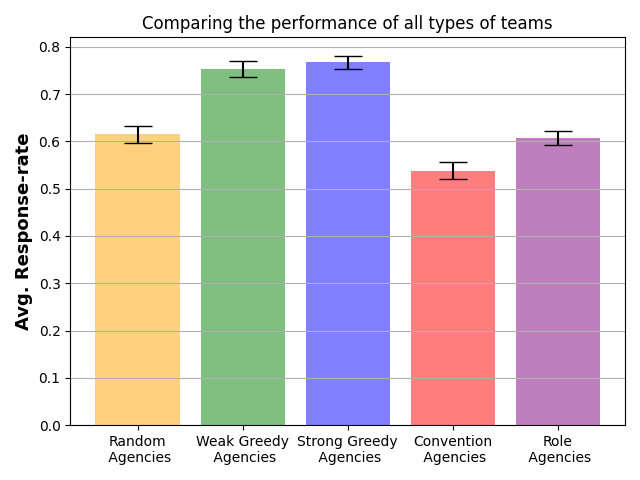
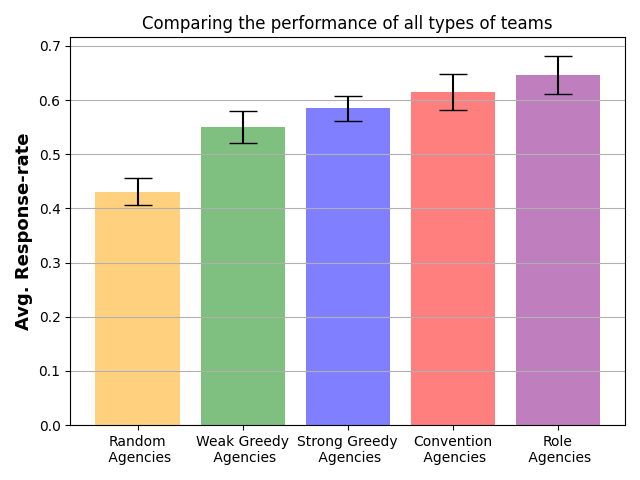
All results...

diff --git a/run.py b/run.py
@@ -77,7 +77,7 @@ if __name__ == '__main__':
         agent_coords=[(220, 40), (40, 220), (220, 440), (440, 220)],
         agent_num_ambulances=[1, 2, 2, 2],
         request_max_generation_steps=50,
-        occupancy_map=OCCUPANCY_MAP_2,
+        occupancy_map=OCCUPANCY_MAP_4,
         show_density_map=opt.show_results,
         save_density_filename=EXPERIMENT_FOLDER + "density_map.png" if opt.save_results else None,
         stressfulness=2
@@ -93,8 +93,8 @@ if __name__ == '__main__':
         "Random\n Agencies": [RandomAgent(agency.name, environment.N_AGENTS) for agency in environment.agencies],
         "Weak Greedy\n Agencies": [WeakGreedyAgent(agency.name, environment.N_AGENTS) for agency in environment.agencies],
         "Strong Greedy\n Agencies": [StrongGreedyAgent(agency.name, environment.N_AGENTS) for agency in environment.agencies],
-        # "Convention\n Agencies": [ConventionAgent(agency.name, environment.N_AGENTS, convention) for agency in environment.agencies],
-        # "Role\n Agencies": [RoleAgent(agency.name, environment.N_AGENTS) for agency in environment.agencies],
+        "Convention\n Agencies": [ConventionAgent(agency.name, environment.N_AGENTS, convention) for agency in environment.agencies],
+        "Role\n Agencies": [RoleAgent(agency.name, environment.N_AGENTS) for agency in environment.agencies],
     }
 
     # 3 - Evaluate agent

diff --git a/ambulance_emergency_response/agents/social_convetion_agent.py b/ambulance_emergency_response/agents/social_convetion_agent.py
@@ -74,6 +74,26 @@ class ConventionAgent(Agent):
             message = Message(closer_requests_actions[-1].request, self.name)
             self.requests_sent.append(closer_requests_actions[-1].request)
 
+        # checks for GRAB actions first prioritizing closer ambulances
+        best_grab_action = None
+        for action in actions:
+            if action.meaning == ERSAction.GRAB:
+                ambulance = action.ambulance
+                if ambulance.coming_back:
+                    continue
+
+                if not best_grab_action:
+                    best_grab_action = action
+                    continue
+
+                ambulance = action.ambulance
+                if Entity.distance_between(self_agency.position, ambulance.position) < \
+                    Entity.distance_between(self_agency.position, best_grab_action.ambulance.position):
+                    best_grab_action = action
+        
+        if best_grab_action:
+            return best_grab_action
+
         if observation.available_ambulances == 0:
             return Action(ERSAction.NOOP).attach_message(message)
 

diff --git a/ambulance_emergency_response/agents/role_agent.py b/ambulance_emergency_response/agents/role_agent.py
@@ -66,6 +66,26 @@ class RoleAgent(Agent):
             message = Message(closer_requests_actions[-1].request, self.name)
             self.requests_sent.append(closer_requests_actions[-1].request)
 
+        # checks for GRAB actions first prioritizing closer ambulances
+        best_grab_action = None
+        for action in actions:
+            if action.meaning == ERSAction.GRAB:
+                ambulance = action.ambulance
+                if ambulance.coming_back:
+                    continue
+
+                if not best_grab_action:
+                    best_grab_action = action
+                    continue
+
+                ambulance = action.ambulance
+                if Entity.distance_between(self_agency.position, ambulance.position) < \
+                    Entity.distance_between(self_agency.position, best_grab_action.ambulance.position):
+                    best_grab_action = action
+        
+        if best_grab_action:
+            return best_grab_action
+
         if observation.available_ambulances == 0:
             return Action(ERSAction.NOOP).attach_message(message)
 
